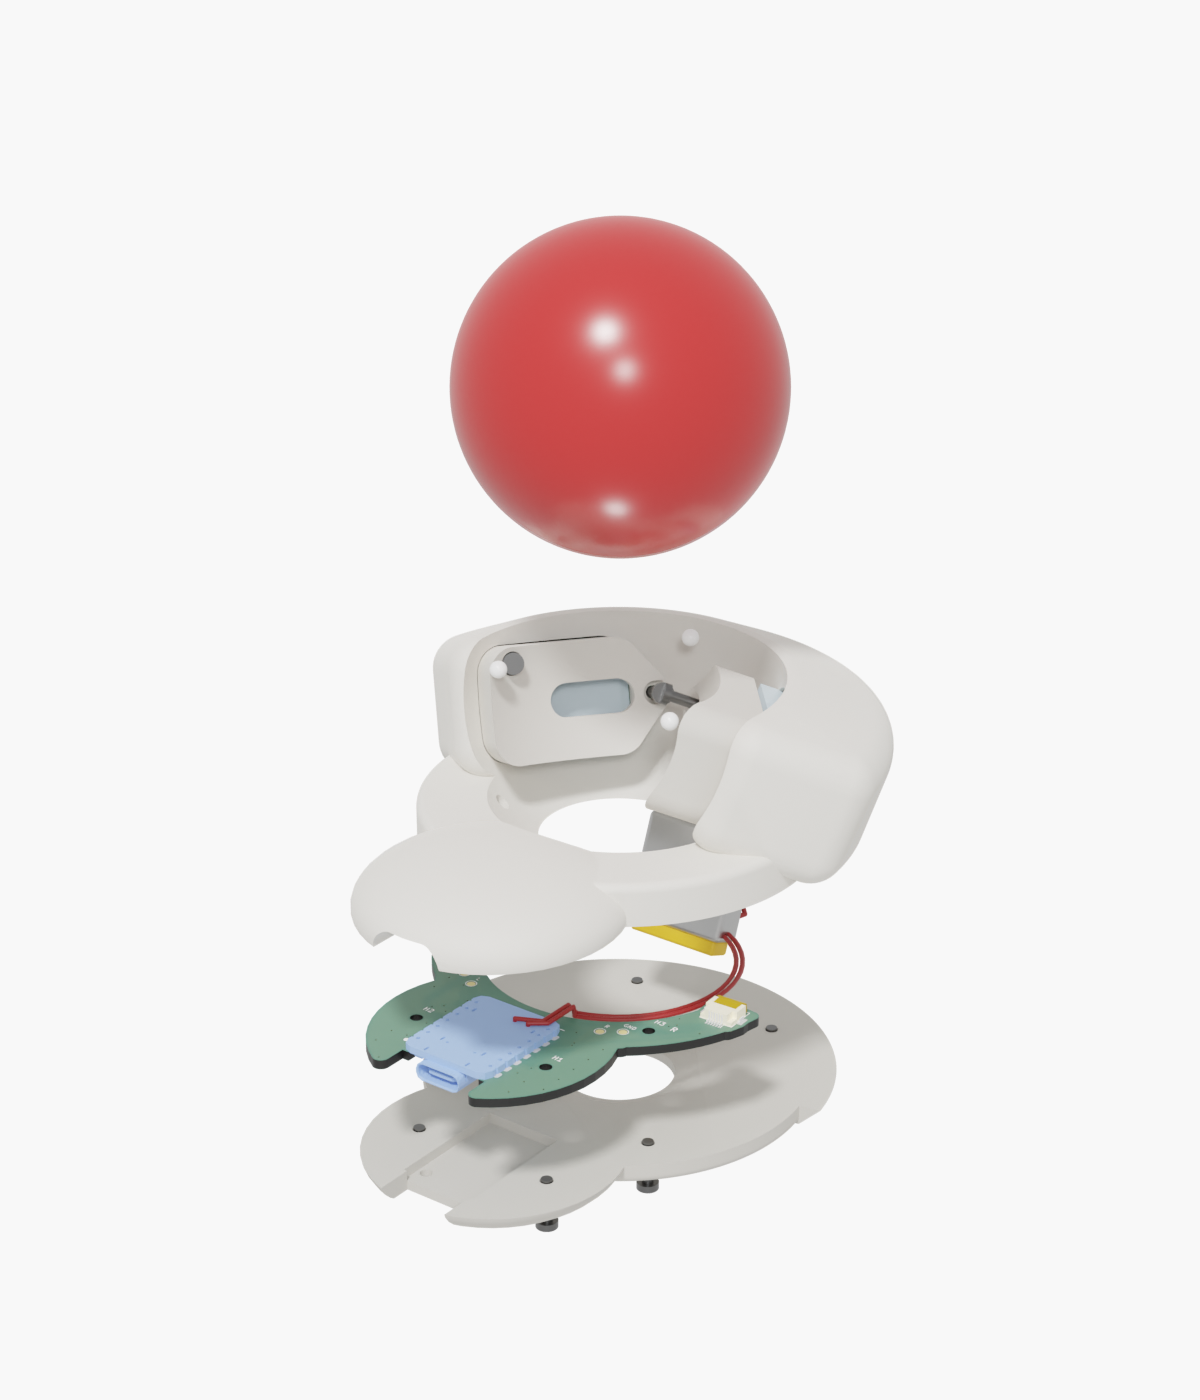
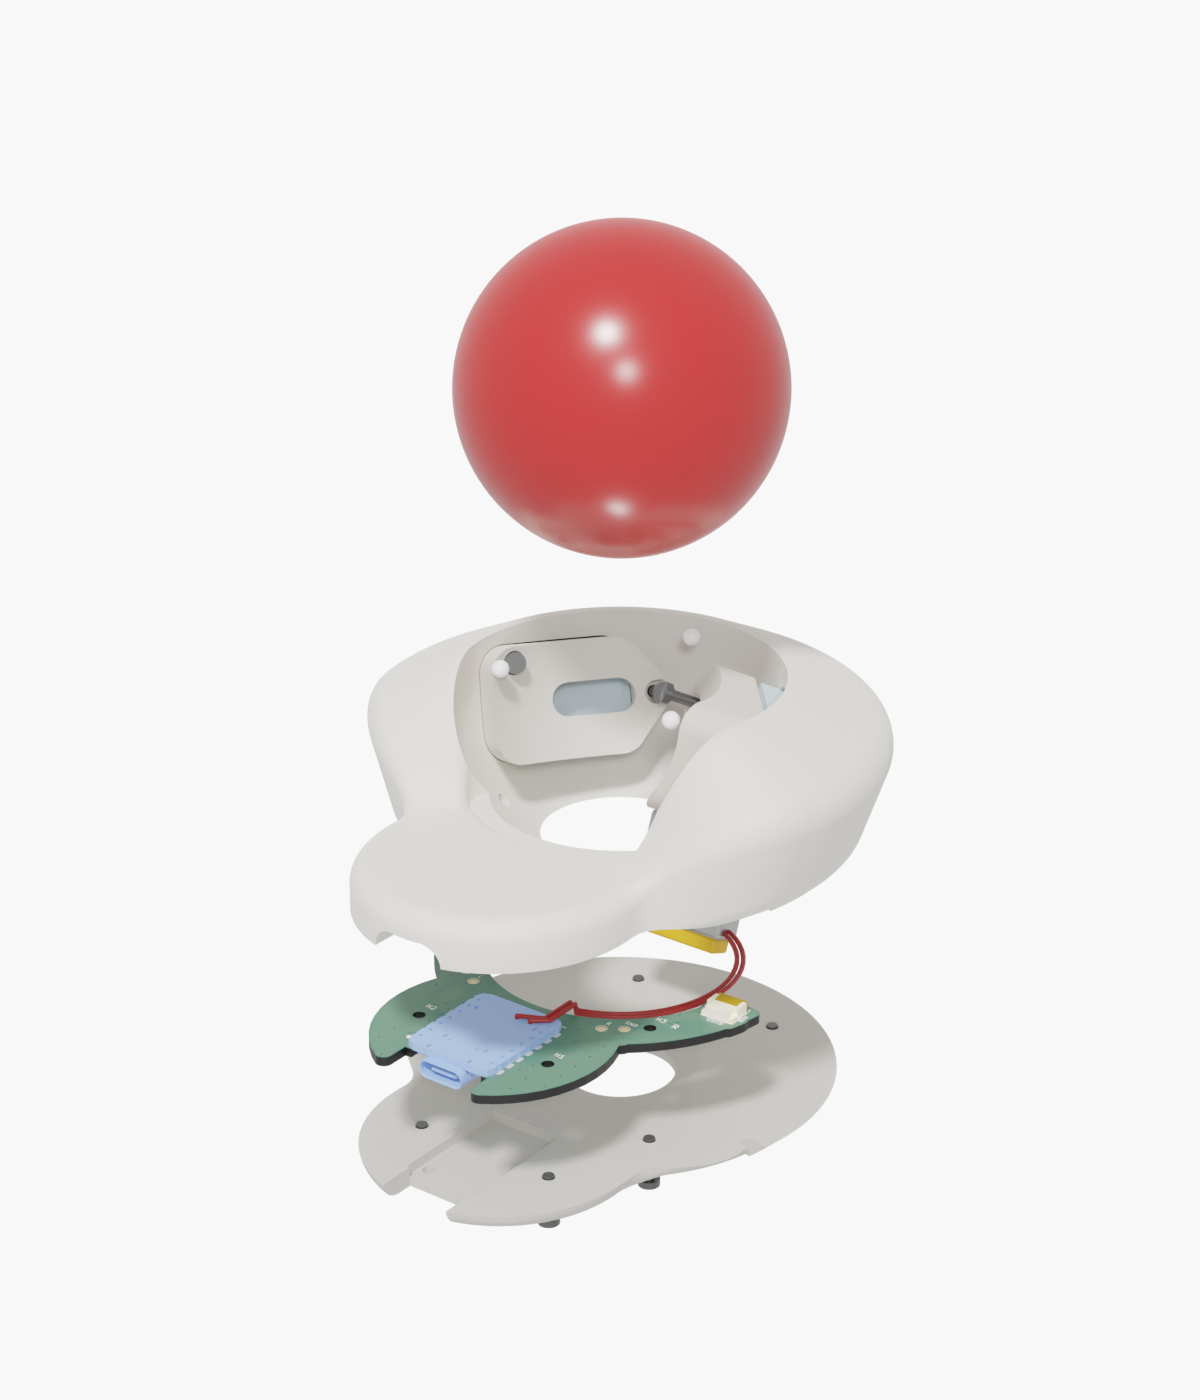
Ring, rim and front pod as one swept surface
The ring's section is swept on round the front, easing down to the rim
and swelling into a flat, low front pod through a filleted waist, so
there is no step or valley where the ridge meets the base. The base PCB
outline no longer depends on the ring and is unchanged.

diff --git a/readme.md b/readme.md
@@ -8,7 +8,7 @@ Two PMW3610 sensors look up at the ball from below its equator, placed so
 their lines of sight are orthogonal (X, Y and twist are all observable);
 their boards lie on their sides in a low ring round the back half of the
 ball, each behind a printed cover that follows the ball and has a window for
-the lens. A Seeed XIAO nRF52840 running ZMK lies flat under a low dome in front of
+the lens. A Seeed XIAO nRF52840 running ZMK lies flat in a low pod that swells out of the rim in front of
 the ball, soldered upside down onto a base PCB that sits in a groove in the
 underside; an FPC ribbon runs from each sensor board to it. The 602020 LiPo
 stands in the same ring, between the two sensors and away from the XIAO's
